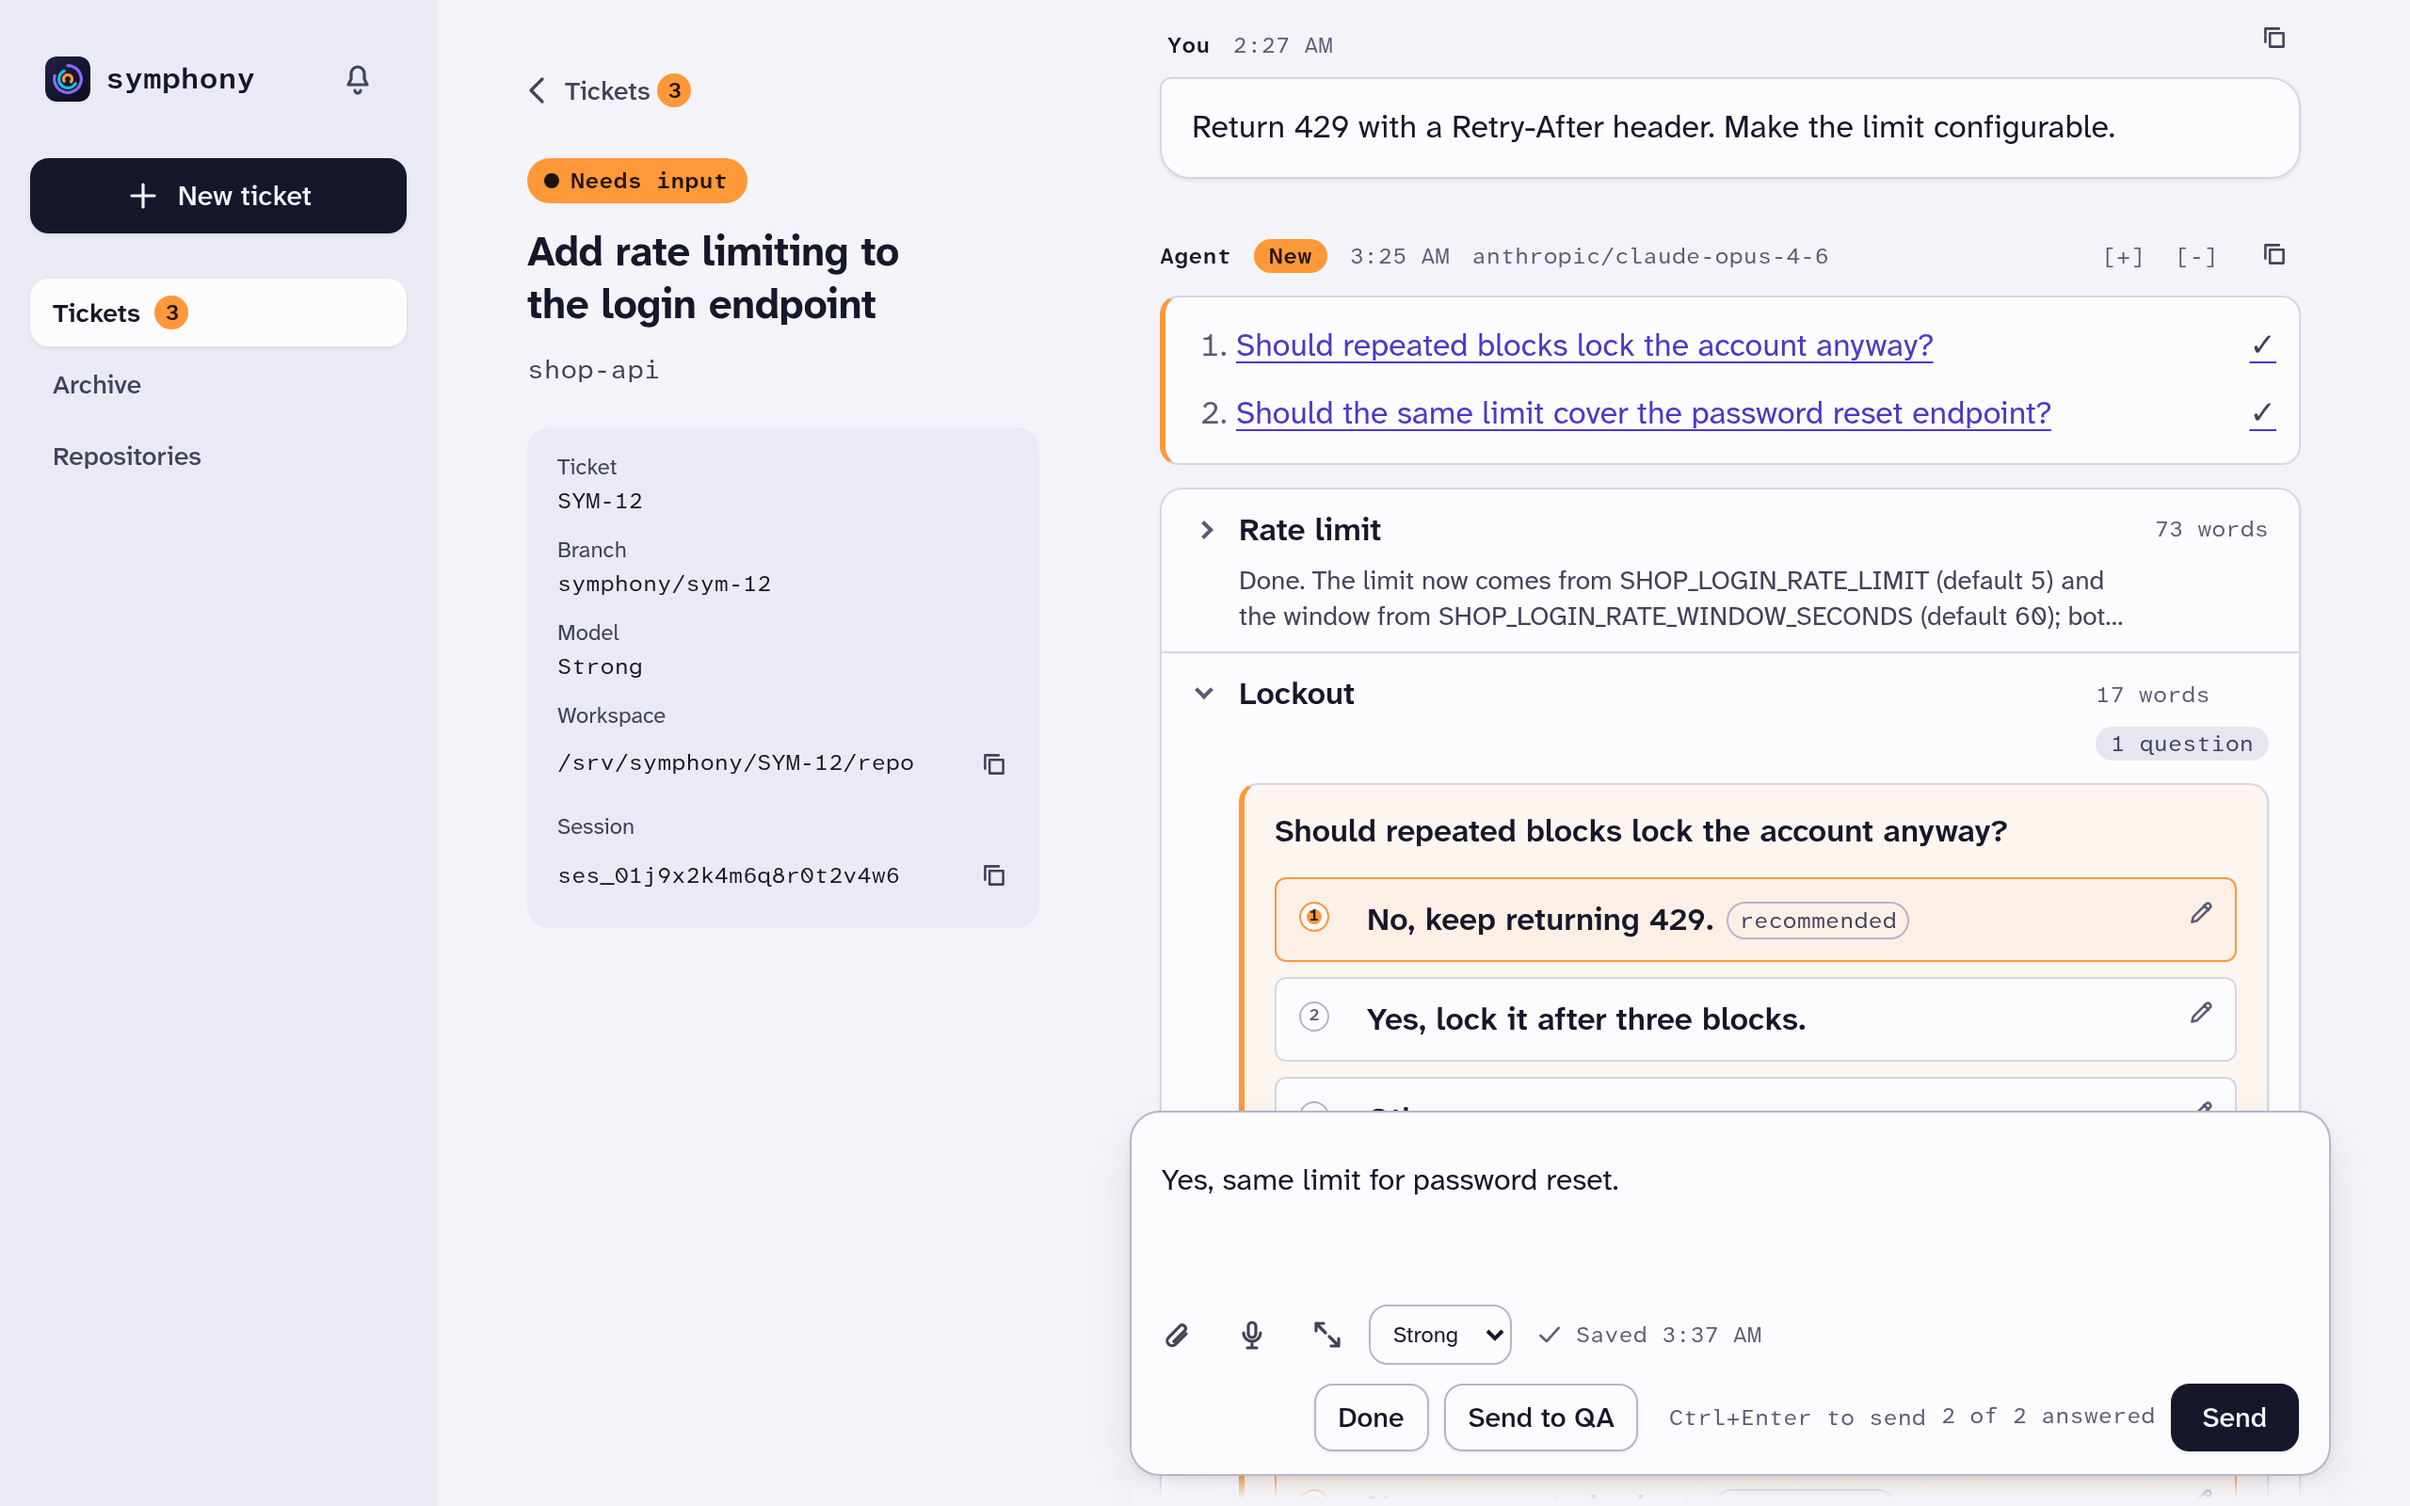
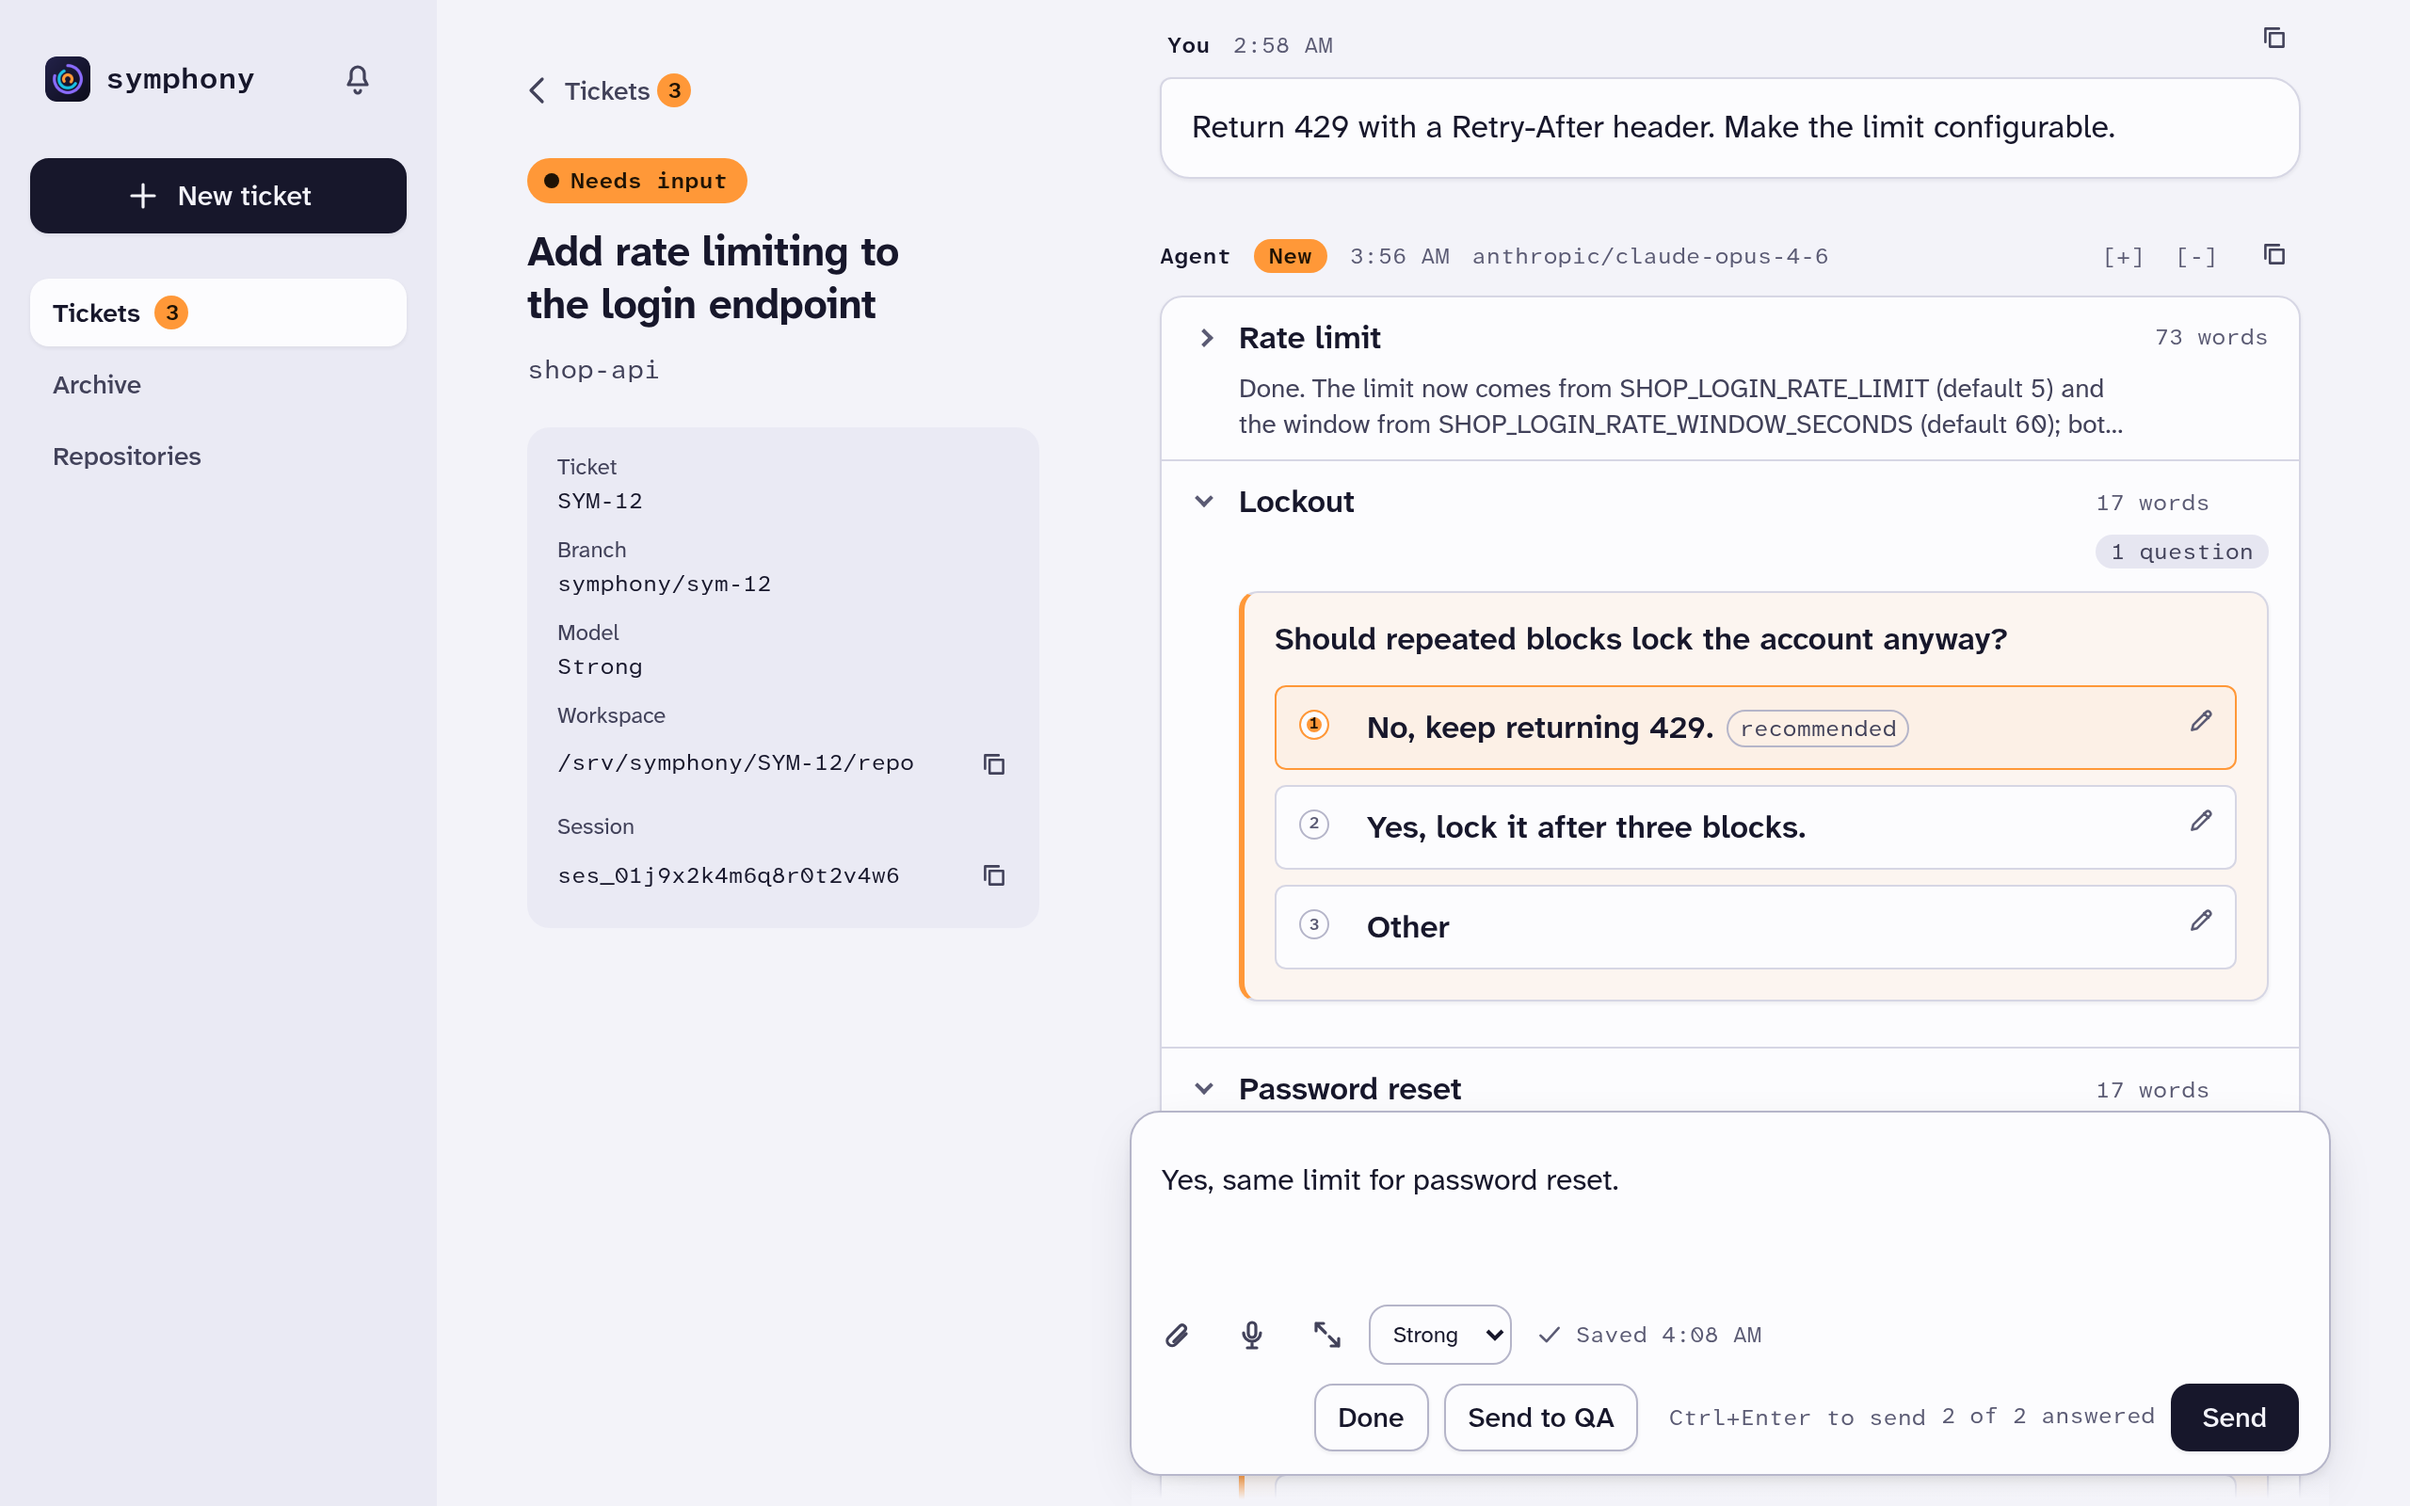
feat: Show an agent reply's question list at the end of the reply

diff --git a/symphony_linear/webui/static/symphony.css b/symphony_linear/webui/static/symphony.css
@@ -764,14 +764,30 @@ body.sym { min-height: 100dvh; }
   border: 1px solid var(--rule); border-left: 3px solid var(--accent);
   border-radius: var(--r2); background: var(--surface);
 }
+/* The index closes the reply, after the bordered sections panel, so the plain
+   .md gap is too tight: two bordered boxes that close together read as one
+   cramped box on a phone, and the index belongs to the reply as a whole, not
+   to the last section. */
+.secs + .qlist { margin-top: var(--s1); }
 .md .qlist ol { display: flex; flex-direction: column; }
 .md .qlist li { margin: 0; }
 .md .qlist li + li { margin-top: 0; }
 .md .qlist a {
   display: flex; align-items: center; gap: var(--s2);
   min-height: var(--tap); padding: var(--s1) 0;
+  /* A link's underline reaches every flex item, so the check mark would get
+     one too.  Only the line is dropped: the text-decoration shorthand would
+     also reset the inherited thickness and offset the normal link sets. */
+  text-decoration-line: none;
 }
-.md .qlist-t { min-width: 0; }
+.md .qlist-t {
+  min-width: 0;
+  text-decoration-line: underline;
+  /* The global link rule's thickness is set on the anchor, and this property
+     does not inherit, so the span needs it to match every other link. */
+  text-decoration-thickness: 1px;
+}
+.md .qlist a:hover .qlist-t { text-decoration-thickness: 2px; }
 .md .qlist-check {
   flex: none; margin-left: auto; color: var(--ink-2); font-weight: 700;
 }

diff --git a/symphony_linear/webui/static/questions.js b/symphony_linear/webui/static/questions.js
@@ -936,7 +936,7 @@
     });
   }
 
-  /* The server renders a list of the reply's questions at its top when its
+  /* The server renders a list of the reply's questions at its end when its
    * cards fall into two or more groups.  On the live reply each item gets a
    * check mark once its question is answered; older replies keep plain links.
    * The test is answerOf() alone: it is true in exactly the cases where

diff --git a/symphony_linear/webui/markdown.py b/symphony_linear/webui/markdown.py
@@ -917,8 +917,10 @@ def render_markdown_sections(text: str, anchor: str | None = None) -> str:
 
     ``anchor`` is the reply entry's id.  It gives every card a unique id and,
     when the reply's cards fall into two or more groups, puts a list of the
-    questions before the reply.  Without an anchor the output keeps its
-    previous HTML, links and list absent, because a link would have no target.
+    questions after the reply, where a phone reader finishes next to the
+    composer and the answered count; at the top it cost a scroll back.  Without
+    an anchor the output keeps its previous HTML, links and list absent,
+    because a link would have no target.
     """
     env: EnvType = {}
     tokens = _MD.parse(text, env)
@@ -926,7 +928,7 @@ def render_markdown_sections(text: str, anchor: str | None = None) -> str:
     question_list = _question_list_html(tokens, anchor) if anchor else ""
     levels = [level for token in tokens if (level := _heading_level(token)) is not None]
     if not levels:
-        return question_list + _MD.renderer.render(tokens, _MD.options, env)
+        return _MD.renderer.render(tokens, _MD.options, env) + question_list
 
     shallowest = min(levels)
     starts = [
@@ -936,7 +938,6 @@ def render_markdown_sections(text: str, anchor: str | None = None) -> str:
     ]
 
     rendered: list[str] = [
-        question_list,
         _MD.renderer.render(tokens[: starts[0]], _MD.options, env),
     ]
     rendered.append('<div class="secs">')
@@ -975,4 +976,5 @@ def render_markdown_sections(text: str, anchor: str | None = None) -> str:
             "</details>"
         )
     rendered.append("</div>")
+    rendered.append(question_list)
     return "".join(rendered)

diff --git a/tests/test_webui_markdown.py b/tests/test_webui_markdown.py
@@ -316,7 +316,8 @@ def test_question_list_appears_when_prose_splits_groups() -> None:
     assert '<nav class="qlist" aria-label="Questions">' in rendered
     assert '<li data-question-index="0"><a href="#reply-7-q0">' in rendered
     assert '<li data-question-index="1"><a href="#reply-7-q1">' in rendered
-    assert rendered.index('class="qlist"') < rendered.index('class="qcard"')
+    assert rendered.index('class="qlist"') > rendered.index('class="qcard"')
+    assert rendered.endswith("</nav>")
 
 
 def test_question_list_appears_when_a_heading_splits_groups() -> None:
@@ -329,6 +330,8 @@ def test_question_list_appears_when_a_heading_splits_groups() -> None:
     assert 'class="qlist"' in rendered
     assert '<a href="#reply-7-q0">' in rendered
     assert '<a href="#reply-7-q1">' in rendered
+    # The list follows the closing section wrapper, not just the last card.
+    assert rendered.index('class="qlist"') > rendered.rindex("</div>")
 
 
 def test_question_list_items_escape_question_text() -> None:

diff --git a/docs/web-ui.md b/docs/web-ui.md
@@ -208,11 +208,13 @@ first question while the answers are still the untouched recommendations, and
 otherwise on the first question without an answer. A single card has no strip.
 
 When a reply's cards fall into two or more groups, a short list of its
-questions sits at the top of the reply. Each item is a link to its card, so the
-list works with no script; on the newest reply an item also gets a check mark
-once its question has an answer, matching the count next to Send. Tapping an
-item switches the card's panel to that question, then the page scrolls to it.
-Older replies keep the links without the marks.
+questions sits at the end of the reply, next to the composer and the answered
+count, so you do not have to scroll back up to find the questions again. Each
+item is a link to its card, so the list works with no script; on the newest
+reply an item also gets a check mark once its question has an answer, matching
+the count next to Send. Tapping an item switches the card's panel to that
+question, then the page scrolls to it. Older replies keep the links without
+the marks.
 
 On a device with a mouse or trackpad each option's marker shows its number.
 With no field focused, the number keys choose options on the visible card of

diff --git a/AGENTS.md b/AGENTS.md
@@ -806,8 +806,9 @@ shutting down, or the ticket is no longer triggered — see `_is_still_triggered
   `data-question-index`; without an anchor the HTML is unchanged. When the
   reply's cards form two or more groups, it also emits
   `<nav class="qlist" aria-label="Questions"><ol>` of
-  `<li data-question-index="N"><a href="#<anchor>-qN">` items before all other
-  reply HTML. An item's text is the visible question, escaped as plain text.
+  `<li data-question-index="N"><a href="#<anchor>-qN">` items after all other
+  reply HTML, following the closing `secs` wrapper. An item's text is the
+  visible question, escaped as plain text.
   A group is a run of `question_card` tokens with no other token between them;
   `buildGroups` in `static/questions.js` joins direct element siblings, and
   the two rules must stay identical, because a mismatch would make the list
